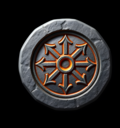
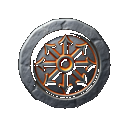
fix: remove black backgrounds from UI assets and recalibrate panel padding
All 17 UI assets (slots, portraits, buttons, panels, bars, map) now have
transparent backgrounds instead of opaque black, fixing visible dark
rectangles on lighter surfaces like the character sheet.

Recalibrated FantasyPanel padding to match measured parchment safe areas
and switched content-heavy modals from variant="modal" (59% usable area)
to variant="pinned" (82% usable area). Increased FantasyButton padding
to keep labels inside the frame border.

diff --git a/app/game/session.tsx b/app/game/session.tsx
@@ -413,35 +413,37 @@ export default function GameSessionScreen() {
         onRequestClose={() => setMenuVisible(false)}
       >
         <Pressable style={styles.modalOverlay} onPress={() => setMenuVisible(false)}>
-          <FantasyPanel variant="modal" style={styles.modalCard}>
+          <FantasyPanel variant="pinned" style={styles.modalCard}>
             <Text style={styles.modalTitle}>MENU</Text>
 
-            <Pressable style={styles.modalOption} onPress={() => { setMenuVisible(false); router.push('/game/camp'); }}>
-              <Text style={styles.modalOptionText}>Make Camp</Text>
-              <Text style={styles.modalOptionDesc}>Rest, talk to companions, explore</Text>
-            </Pressable>
-
-            <Pressable style={styles.modalOption} onPress={() => { setMenuVisible(false); router.push('/game/journal'); }}>
-              <Text style={styles.modalOptionText}>Journal</Text>
-              <Text style={styles.modalOptionDesc}>View your adventure log</Text>
-            </Pressable>
-
-            {campaign?.adventureMap && (
-              <Pressable style={styles.modalOption} onPress={() => { setMenuVisible(false); router.push('/game/map'); }}>
-                <Text style={styles.modalOptionText}>Adventure Map</Text>
-                <Text style={styles.modalOptionDesc}>View your path ahead</Text>
+            <ScrollView style={styles.modalScroll} showsVerticalScrollIndicator={false}>
+              <Pressable style={styles.modalOption} onPress={() => { setMenuVisible(false); router.push('/game/camp'); }}>
+                <Text style={styles.modalOptionText}>Make Camp</Text>
+                <Text style={styles.modalOptionDesc}>Rest, talk to companions, explore</Text>
               </Pressable>
-            )}
 
-            <Pressable style={styles.modalOption} onPress={handleNewCampaign}>
-              <Text style={styles.modalOptionText}>New Campaign</Text>
-              <Text style={styles.modalOptionDesc}>Keep your character, start a new adventure</Text>
-            </Pressable>
+              <Pressable style={styles.modalOption} onPress={() => { setMenuVisible(false); router.push('/game/journal'); }}>
+                <Text style={styles.modalOptionText}>Journal</Text>
+                <Text style={styles.modalOptionDesc}>View your adventure log</Text>
+              </Pressable>
 
-            <Pressable style={styles.modalOption} onPress={handleNewCharacter}>
-              <Text style={styles.modalOptionText}>New Character</Text>
-              <Text style={styles.modalOptionDesc}>Start over with a new character</Text>
-            </Pressable>
+              {campaign?.adventureMap && (
+                <Pressable style={styles.modalOption} onPress={() => { setMenuVisible(false); router.push('/game/map'); }}>
+                  <Text style={styles.modalOptionText}>Adventure Map</Text>
+                  <Text style={styles.modalOptionDesc}>View your path ahead</Text>
+                </Pressable>
+              )}
+
+              <Pressable style={styles.modalOption} onPress={handleNewCampaign}>
+                <Text style={styles.modalOptionText}>New Campaign</Text>
+                <Text style={styles.modalOptionDesc}>Keep your character, start a new adventure</Text>
+              </Pressable>
+
+              <Pressable style={styles.modalOption} onPress={handleNewCharacter}>
+                <Text style={styles.modalOptionText}>New Character</Text>
+                <Text style={styles.modalOptionDesc}>Start over with a new character</Text>
+              </Pressable>
+            </ScrollView>
 
             <FantasyButton
               variant="secondary"
@@ -460,7 +462,7 @@ export default function GameSessionScreen() {
         animationType="fade"
       >
         <View style={styles.modalOverlay}>
-          <FantasyPanel variant="modal" style={styles.modalCard}>
+          <FantasyPanel variant="pinned" style={styles.modalCard}>
             <Text style={styles.tutorialCompleteTitle}>YOUR ADVENTURE{'\n'}BEGINS</Text>
             <Text style={styles.tutorialCompleteDesc}>
               You've learned the basics of combat, skill checks, and companion dynamics. The rest of your story is yours to write.
@@ -640,7 +642,7 @@ const styles = StyleSheet.create({
   },
   modalCard: {
     width: '100%',
-    maxWidth: 320,
+    maxWidth: 340,
   },
   modalTitle: {
     fontFamily: fonts.heading,
@@ -648,27 +650,32 @@ const styles = StyleSheet.create({
     color: PARCHMENT_TEXT.accent,
     letterSpacing: 2,
     textAlign: 'center',
-    marginBottom: spacing.lg,
+    marginBottom: spacing.md,
+  },
+  modalScroll: {
+    maxHeight: 300,
   },
   modalOption: {
     borderWidth: 1,
     borderColor: 'rgba(90,58,24,0.35)',
     borderRadius: 8,
-    padding: spacing.md,
-    marginBottom: spacing.sm,
+    padding: spacing.sm,
+    marginBottom: spacing.xs,
     backgroundColor: 'rgba(90,58,24,0.08)',
   },
   modalOptionText: {
     fontFamily: fonts.heading,
-    fontSize: 14,
+    fontSize: 13,
     color: PARCHMENT_TEXT.primary,
     letterSpacing: 0.5,
+    lineHeight: 18,
   },
   modalOptionDesc: {
     fontFamily: fonts.body,
-    fontSize: 12,
+    fontSize: 11,
     color: PARCHMENT_TEXT.secondary,
     marginTop: 2,
+    lineHeight: 16,
   },
   modalCancelBtn: {
     marginTop: spacing.xs,

diff --git a/src/components/ui/FantasyPanel.tsx b/src/components/ui/FantasyPanel.tsx
@@ -19,14 +19,21 @@ const VARIANT_ASSETS: Record<PanelVariant, any> = {
   strip: UI_ASSETS.panel.strip,
 };
 
-// Padding insets per variant — how far content should be from the image edges
-// to sit inside the visible parchment area. Adjust after visual testing.
+// Padding insets per variant — derived from measuring each asset's actual
+// parchment safe-area. Sized for typical phone widths (340–375 px panels).
+//
+// Measured safe areas (from 512-px source images):
+//   modal  → 59 % w × 45 % h  ⇒  ~20 % L/R, ~29 % T, ~27 % B
+//   card   → 86 % w × 63 % h  ⇒  ~7 % L/R, ~18 % T/B
+//   pinned → 82 % w × 70 % h  ⇒  ~9 % L/R, ~15 % T/B
+//   button → ~80 % w × 70 % h ⇒  ~10 % L/R, ~15 % T/B
+//   strip  → ~60 % w × 50 % h ⇒  large dead space
 const VARIANT_PADDING: Record<PanelVariant, ViewStyle> = {
-  card: { paddingHorizontal: 24, paddingVertical: 20 },
-  pinned: { paddingHorizontal: 28, paddingVertical: 24 },
-  modal: { paddingHorizontal: 28, paddingVertical: 28 },
-  button: { paddingHorizontal: 20, paddingVertical: 12 },
-  strip: { paddingHorizontal: 16, paddingVertical: 10 },
+  card:   { paddingHorizontal: 32, paddingVertical: 36 },
+  pinned: { paddingHorizontal: 36, paddingVertical: 40 },
+  modal:  { paddingHorizontal: 64, paddingVertical: 72 },
+  button: { paddingHorizontal: 40, paddingVertical: 32 },
+  strip:  { paddingHorizontal: 32, paddingVertical: 24 },
 };
 
 export function FantasyPanel({ variant, children, style }: FantasyPanelProps) {
@@ -49,7 +56,7 @@ const styles = StyleSheet.create({
     overflow: 'hidden',
   },
   image: {
-    borderRadius: 4,
+    // No borderRadius — let the ornate frame corners render naturally
   },
   content: {
     // Base styles — variant padding applied dynamically

diff --git a/app/game/camp.tsx b/app/game/camp.tsx
@@ -185,7 +185,7 @@ function CompanionPicker({ visible, companions, onSelect, onClose }: CompanionPi
       onRequestClose={onClose}
     >
       <Pressable style={styles.modalOverlay} onPress={onClose}>
-        <FantasyPanel variant="modal" style={styles.pickerCard}>
+        <FantasyPanel variant="pinned" style={styles.pickerCard}>
           <Text style={styles.pickerTitle}>TALK TO WHOM?</Text>
           {companions.length === 0 ? (
             <Text style={styles.pickerEmpty}>No companions at camp.</Text>

diff --git a/app/game/map.tsx b/app/game/map.tsx
@@ -384,7 +384,7 @@ export default function AdventureMapScreen() {
       >
         <Pressable style={styles.modalOverlay} onPress={isSubmitting ? undefined : handleCancel}>
           <Pressable onPress={e => e.stopPropagation()}>
-            <FantasyPanel variant="modal" style={styles.modalCard}>
+            <FantasyPanel variant="pinned" style={styles.modalCard}>
               {selectedNode && (
                 <>
                   <Text style={styles.modalIcon}>

diff --git a/src/components/ui/FantasyButton.tsx b/src/components/ui/FantasyButton.tsx
@@ -90,13 +90,13 @@ export function FantasyButton({
 
 const styles = StyleSheet.create({
   background: {
-    paddingHorizontal: 24,
-    paddingVertical: 14,
+    paddingHorizontal: 40,
+    paddingVertical: 18,
     alignItems: 'center',
     justifyContent: 'center',
   },
   image: {
-    borderRadius: 4,
+    // No borderRadius — let the ornate frame corners render naturally
   },
   disabled: {
     opacity: 0.4,
